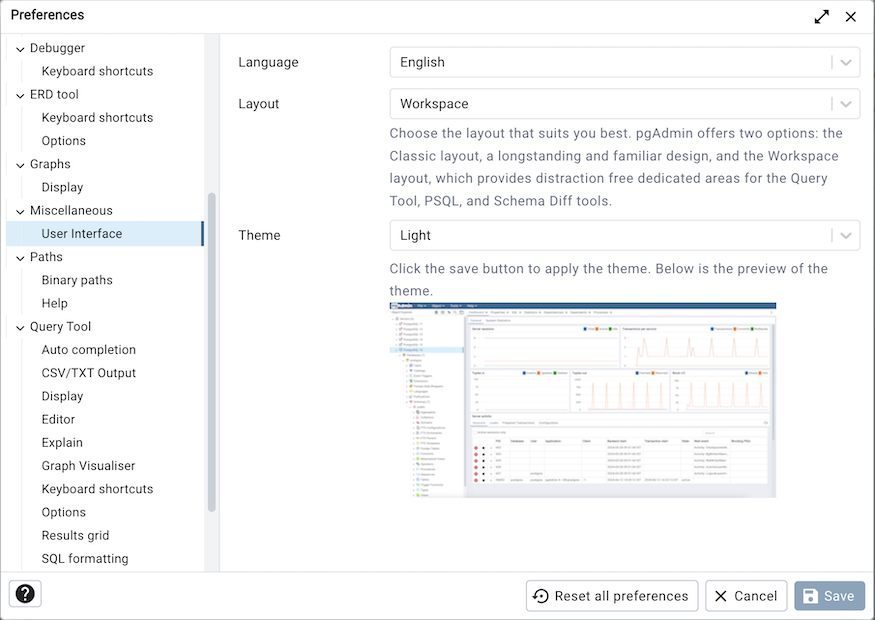
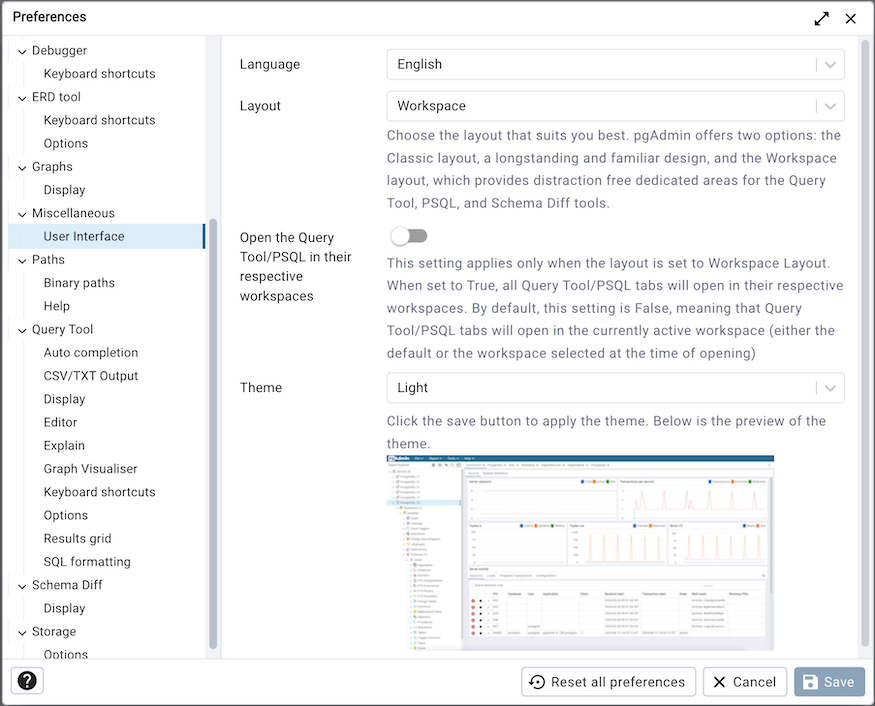
Workspace Layout Update - Enhanced Query Tool and PSQL Behaviour:
With these changes, the Query Tool and PSQL tabs will now open in the same active workspace where the action is initiated.

diff --git a/web/pgadmin/misc/workspaces/static/js/WorkspaceProvider.jsx b/web/pgadmin/misc/workspaces/static/js/WorkspaceProvider.jsx
@@ -9,7 +9,7 @@
 
 import React, { useContext, useMemo, useRef, useState } from 'react';
 import PropTypes from 'prop-types';
-import { WORKSPACES } from '../../../../browser/static/js/constants';
+import { BROWSER_PANELS, WORKSPACES } from '../../../../browser/static/js/constants';
 import { usePgAdmin } from '../../../../static/js/PgAdminProvider';
 import usePreferences from '../../../../preferences/static/js/store';
 import { config } from './config';
@@ -23,8 +23,11 @@ export function WorkspaceProvider({children}) {
   const [currentWorkspace, setCurrentWorkspace] = useState(WORKSPACES.DEFAULT);
   const lastSelectedTreeItem = useRef();
   const isClassic = (usePreferences()?.getPreferencesForModule('misc')?.layout ?? 'classic') == 'classic';
+  const openInResWorkspace = usePreferences()?.getPreferencesForModule('misc')?.open_in_res_workspace && !isClassic;
 
-  pgAdmin.Browser.docker.currentWorkspace = WORKSPACES.DEFAULT;
+  if (_.isUndefined(pgAdmin.Browser.docker.currentWorkspace)) {
+    pgAdmin.Browser.docker.currentWorkspace = WORKSPACES.DEFAULT;
+  }
   /* In case of classic UI all workspace objects should point to the
   * the instance of the default layout.
   */
@@ -46,6 +49,14 @@ export function WorkspaceProvider({children}) {
       docker = pgAdmin.Browser.docker[wsConfig.docker];
       workspace = wsConfig.workspace;
     } else {
+      docker = pgAdmin.Browser.docker.default_workspace;
+      workspace = WORKSPACES.DEFAULT;
+    }
+
+    // If the layout is Workspace layout and 'Open the Query Tool/PSQL in their respective workspaces'
+    // is False then check the current workspace and set the workspace and docker accordingly.
+    if (!openInResWorkspace && pgAdmin.Browser.docker.currentWorkspace == WORKSPACES.DEFAULT &&
+      (panelId.indexOf(BROWSER_PANELS.QUERY_TOOL) >= 0 || panelId.indexOf(BROWSER_PANELS.PSQL_TOOL) >= 0)) {
       docker = pgAdmin.Browser.docker.default_workspace;
       workspace = WORKSPACES.DEFAULT;
     }

diff --git a/web/pgadmin/tools/sqleditor/static/js/SQLEditorModule.js b/web/pgadmin/tools/sqleditor/static/js/SQLEditorModule.js
@@ -23,7 +23,7 @@ import ReactDOM from 'react-dom/client';
 import QueryToolComponent from './components/QueryToolComponent';
 import ModalProvider from '../../../../static/js/helpers/ModalProvider';
 import Theme from '../../../../static/js/Theme';
-import { BROWSER_PANELS } from '../../../../browser/static/js/constants';
+import { BROWSER_PANELS, WORKSPACES } from '../../../../browser/static/js/constants';
 import { NotifierProvider } from '../../../../static/js/helpers/Notifier';
 import usePreferences, { listenPreferenceBroadcast } from '../../../../preferences/static/js/store';
 import { PgAdminProvider } from '../../../../static/js/PgAdminProvider';
@@ -229,6 +229,11 @@ export default class SQLEditor {
   }
 
   async loadComponent(container, params) {
+    let panelDocker = pgWindow.pgAdmin.Browser.docker.query_tool_workspace;
+    if (pgWindow.pgAdmin.Browser.docker.currentWorkspace == WORKSPACES.DEFAULT) {
+      panelDocker = pgWindow.pgAdmin.Browser.docker.default_workspace;
+    }
+
     const selectedNodeInfo = params.selectedNodeInfo ? JSON.parse(_.unescape(params.selectedNodeInfo)) : params.selectedNodeInfo;
     pgAdmin.Browser.keyboardNavigation.init();
     await listenPreferenceBroadcast();
@@ -238,7 +243,7 @@ export default class SQLEditor {
         <PgAdminProvider value={pgAdmin}>
           <ModalProvider>
             <NotifierProvider pgAdmin={pgAdmin} pgWindow={pgWindow} />
-            <QueryToolComponent params={params} pgWindow={pgWindow} pgAdmin={pgAdmin} qtPanelDocker={pgWindow.pgAdmin.Browser.docker.query_tool_workspace}
+            <QueryToolComponent params={params} pgWindow={pgWindow} pgAdmin={pgAdmin} qtPanelDocker={panelDocker}
               qtPanelId={`${BROWSER_PANELS.QUERY_TOOL}_${params.trans_id}`} selectedNodeInfo={selectedNodeInfo}/>
           </ModalProvider>
         </PgAdminProvider>

diff --git a/web/pgadmin/preferences/static/js/components/PreferencesComponent.jsx b/web/pgadmin/preferences/static/js/components/PreferencesComponent.jsx
@@ -299,6 +299,8 @@ export default function PreferencesComponent({ ...props }) {
         preferencesValues[element.id] = { 'warning': _val[0], 'alert': _val[1] };
       } else if (subNode.label == gettext('Results grid') && node.label == gettext('Query Tool')) {
         setResultsOptions(element, subNode, preferencesValues, type);
+      } else if (subNode.label == gettext('User Interface') && node.label == gettext('Miscellaneous')) {
+        setWorkspaceOptions(element, subNode, preferencesValues, type);
       } else {
         element.type = type;
         preferencesValues[element.id] = element.value;
@@ -323,6 +325,23 @@ export default function PreferencesComponent({ ...props }) {
       });
       element.disabled = (state) => {
         return state[size_control_id] != 'by_data';
+      };
+    }
+    element.type = type;
+    preferencesValues[element.id] = element.value;
+  }
+
+  function setWorkspaceOptions(element, subNode, preferencesValues, type) {
+    if (element.name== 'open_in_res_workspace') {
+      let layout_control_id = null;
+      subNode.preferences.forEach((_el) => {
+        if(_el.name == 'layout') {
+          layout_control_id = _el.id;
+        }
+
+      });
+      element.disabled = (state) => {
+        return state[layout_control_id] != 'workspace';
       };
     }
     element.type = type;

diff --git a/web/pgadmin/static/js/BrowserComponent.jsx b/web/pgadmin/static/js/BrowserComponent.jsx
@@ -80,16 +80,16 @@ let defaultLayout = {
         mode: 'horizontal',
         children: [
           {
-            size: 20,
+            size: 10,
             tabs: [
               LayoutDocker.getPanel({
-                id: BROWSER_PANELS.OBJECT_EXPLORER, title: gettext('Object Explorer'),
+                id: BROWSER_PANELS.OBJECT_EXPLORER, title: gettext(''),
                 content: <ObjectExplorer />, group: 'object-explorer'
               }),
             ],
           },
           {
-            size: 80,
+            size: 90,
             id: BROWSER_PANELS.MAIN,
             group: 'playground',
             tabs: defaultTabsData.map((t)=>LayoutDocker.getPanel(t)),

diff --git a/web/pgadmin/misc/__init__.py b/web/pgadmin/misc/__init__.py
@@ -105,6 +105,20 @@ class MiscModule(PgAdminModule):
                 'Diff tools.'
             )
         )
+        self.preference.register(
+            'user_interface', 'open_in_res_workspace',
+            gettext("Open the Query Tool/PSQL in their respective workspaces"),
+            'boolean', False,
+            category_label=PREF_LABEL_USER_INTERFACE,
+            help_str=gettext(
+                'This setting applies only when the layout is set to '
+                'Workspace Layout. When set to True, all Query Tool/PSQL '
+                'tabs will open in their respective workspaces. By default, '
+                'this setting is False, meaning that Query Tool/PSQL tabs '
+                'will open in the currently active workspace (either the '
+                'default or the workspace selected at the time of opening)'
+            )
+        )
 
     def get_exposed_url_endpoints(self):
         """

diff --git a/docs/en_US/preferences.rst b/docs/en_US/preferences.rst
@@ -286,6 +286,11 @@ Expand the *Miscellaneous* node to specify miscellaneous display preferences.
   areas for the Query Tool, PSQL, and Schema Diff tools. 'Workspace' layout is
   the default layout, but user can change it to 'Classic'.
 
+* When the *Open the Query Tool/PSQL in their respective workspaces* switch is set to *True*
+  then all Query Tool/PSQL tabs will open in their respective workspaces. By default,
+  this setting is False, meaning that Query Tool/PSQL tabs will open in the currently
+  active workspace (either the default or the workspace selected at the time of opening).
+
 * Use the *Themes* drop-down listbox to select the theme for pgAdmin. You'll also get a preview just below the
   drop down. You can also submit your own themes,
   check `here <https://github.com/pgadmin-org/pgadmin4/blob/master/README.md>`_ how.
